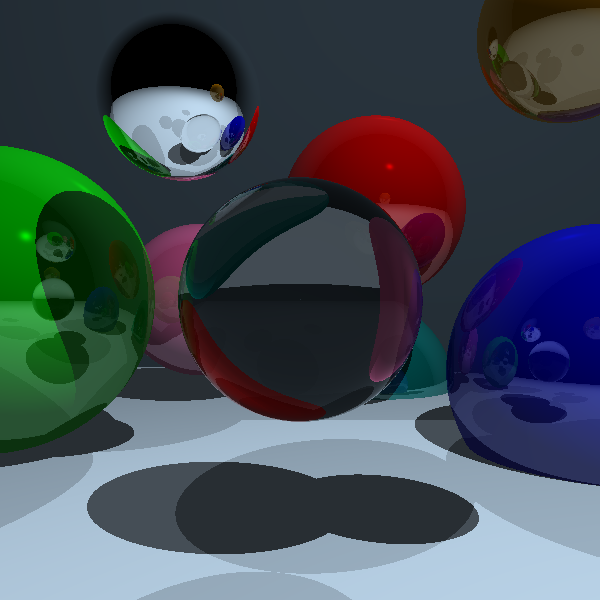
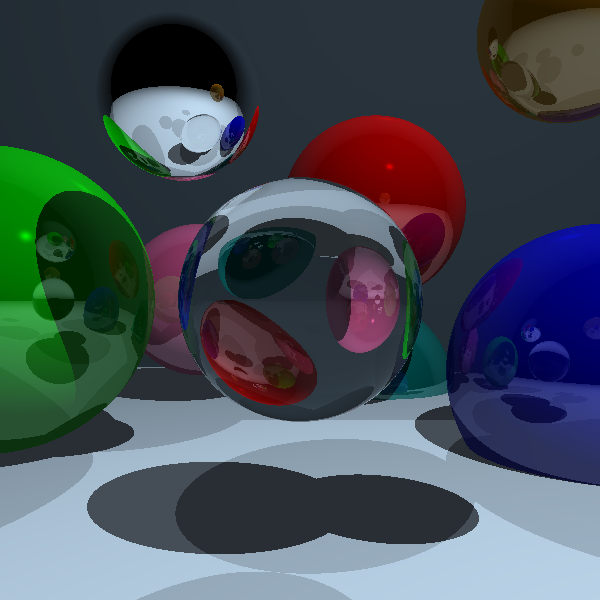
fix bug in refraction.

Changed region(s): [[0.3, 0.3, 0.72, 0.72]]

diff --git a/src/main/java/RayTracer.java b/src/main/java/RayTracer.java
@@ -160,6 +160,101 @@ public class RayTracer {
         scene.addLight(new Point( 0.6, new Vec(2, 5, 0)));
         scene.addLight(new Directional(0.2, new Vec(1, 4, 4)));
 
+
+//        // Bottom
+//        scene.addShape(new Sphere(
+//                new Vec(0, -5001, 0),
+//                5000,
+//                new Vec(204, 232, 255),
+//                100000000,
+//                0,
+//                false,
+//                1));
+//
+//        // Top
+//        scene.addShape(new Sphere(
+//                new Vec(0, 5001, 0),
+//                5000,
+//                new Vec(204, 232, 255),
+//                100000000,
+//                0,
+//                false,
+//                1));
+//
+//        // Back
+//        scene.addShape(new Sphere(
+//                new Vec(0, 0, 5005),
+//                5000,
+//                new Vec(204, 232, 255),
+//                100000000,
+//                0,
+//                false,
+//                1));
+//
+//        // Front
+//        scene.addShape(new Sphere(
+//                new Vec(0, 0, -5000),
+//                5000,
+//                new Vec(0, 0, 0),
+//                100000000,
+//                0,
+//                false,
+//                1));
+//
+//        // Right
+//        scene.addShape(new Sphere(
+//                new Vec(5001, 0, 0),
+//                5000,
+//                new Vec(65, 55, 100),
+//                100000000,
+//                0,
+//                false,
+//                1));
+//
+//        // Left
+//        scene.addShape(new Sphere(
+//                new Vec(-5001, 0, 0),
+//                5000,
+//                new Vec(100, 60, 70),
+//                100000000,
+//                0,
+//                false,
+//                1));
+//
+//        // Glass ball
+//        scene.addShape(new Sphere(
+//                new Vec(0.4, -0.4, 3),
+//                0.4,
+//                new Vec(255, 0, 0),
+//                100, 0,
+//                true,
+//                1.5));
+//
+//        // Mirror
+//        scene.addShape(new Sphere(
+//                new Vec(-0.2, 0, 2.5),
+//                0.3,
+//                new Vec(255, 255, 255),
+//                300,
+//                1,
+//                false,
+//                1));
+
+        // light marker
+//        scene.addShape(new Sphere(
+//                new Vec(0.1, 0, 2),
+//                0.01,
+//                new Vec(255, 255, 0),
+//                300,
+//                0,
+//                false,
+//                1));
+
+//        // Specify the lighting in the scene.
+//        scene.addLight(new Ambient(0.2));
+//        scene.addLight(new Point(0.6, new Vec(0, 1, 2.5)));
+//        scene.addLight(new Directional(0.8, new Vec(1, 4, 4)));
+
         // Retrieve the lights and objects, and camera details..
         rt.objects = scene.getObjects();
         rt.lights = scene.getLights();
@@ -259,13 +354,10 @@ public class RayTracer {
         if (recursionDepth > 0 && transparent > 0) {
             refractedRay = new Ray(closePoint, refractRay(direction, closeNormal, R_INDEX_AIR, rIndex));
 
-            // Finds the closest intersection when fired from slightly in front of the close intersection
-            // giving the far intersection from the shape.
-            closestShapeIntersectionRefraction = getClosestShapeIntersection(refractedRay, traceMin, traceMax);
+            closestShapeIntersectionRefraction = getClosestShapeIntersection(refractedRay, 0.001, traceMax);
             farIntersection = closestShapeIntersectionRefraction.getClosestIntersection();
             farPoint = closePoint.add(refractedRay.getDirection().scale(farIntersection));
-            farNormal = (farPoint.sub(((Sphere) closestShape).getCenter())).scale(-1);
-            farNormal = farNormal.scale(1.0 / farNormal.length());
+            farNormal = (farPoint.sub(((Sphere) closestShape).getCenter())).scale(-1).normalise();
 
             refractedRay = new Ray(farPoint, refractRay(refractedRay.getDirection(), farNormal, rIndex, R_INDEX_AIR));
             transparentColor = traceRay(refractedRay, 0.001, traceMax, recursionDepth- 1);
